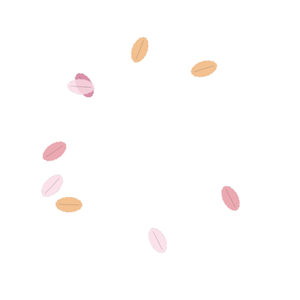
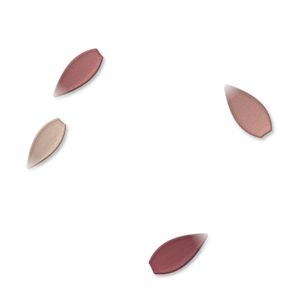
Redraw seal marks as pressed reliefs, better petals and ribbon
Marks are now embossed into the wax like a real seal matrix and are more
personal: owl, letter, quill and ink, comet, moon and stars, forget-me-nots,
rose and key. Petals are pressed rose petals, and the ribbon runs under the
seal in a satin shade of the wax.

Claude-Session: https://claude.ai/code/session_016FXJrYWe26Fg4ZPAV7iHes

diff --git a/src/components/bits.tsx b/src/components/bits.tsx
@@ -8,22 +8,9 @@ import { useStore } from '../lib/store';
 /** A pressed wax seal: real wax image with the person's monogram embossed into it. */
 const ON_TOP = ['gold', 'glitter', 'twigs', 'petals'];
 
-/** Marks that can be pressed into the wax instead of letters. Filled shapes plus round strokes, 24 unit box. */
-const L = { fill: 'none', stroke: 'currentColor', strokeWidth: 1.8, strokeLinecap: 'round' as const, strokeLinejoin: 'round' as const };
-export const MARKS: Record<string, [string, ReactNode]> = {
-  moon: ['Moon', <path d="M15.5 3.2a8.8 8.8 0 1 0 5.6 15.4A7.2 7.2 0 0 1 15.5 3.2z" />],
-  star: ['Star', <path d="M12 2.6l2.75 5.95 6.5.75-4.85 4.4 1.35 6.4L12 16.85 6.25 20.1l1.35-6.4L2.75 9.3l6.5-.75z" />],
-  sun: ['Sun', <><circle cx="12" cy="12" r="4.4" /><path {...L} d="M12 2.5v2.6M12 18.9v2.6M2.5 12h2.6M18.9 12h2.6M5.3 5.3l1.8 1.8M16.9 16.9l1.8 1.8M5.3 18.7l1.8-1.8M16.9 7.1l1.8-1.8" /></>],
-  comet: ['Comet', <><circle cx="16.6" cy="7.4" r="3.4" /><path {...L} d="M13.6 10.4L3.8 20.2M12.2 7.6L6.6 13.2M16.4 11.8l-5.6 5.6" /></>],
-  leaf: ['Leaf', <><path d="M4.5 19.5C4.5 10.5 10 4 20.5 3.5c-.5 10.5-7 16-16 16z" /><path d="M5.5 18.5L14 10" fill="none" stroke="rgba(255,255,255,.25)" strokeWidth="1.2" strokeLinecap="round" /></>],
-  lotus: ['Lotus', <><path d="M12 3.6c2.6 3.2 2.6 8.4 0 12.6c-2.6-4.2-2.6-9.4 0-12.6z" /><path d="M11.2 16.4C8 15.6 4.8 12.6 3.8 8.4c3.4.2 6.6 3.4 7.4 8zM12.8 16.4c3.2-.8 6.4-3.8 7.4-8c-3.4.2-6.6 3.4-7.4 8z" /><path {...L} d="M4.5 19.4h15" /></>],
-  feather: ['Feather', <><path d="M20 3.6C13 3.8 7.6 8.8 7.6 15.4v1.6l1.4 1.4h1.6C17.2 18.4 20.2 11 20 3.6z" /><path {...L} d="M16.4 7.6L4 20" /></>],
-  key: ['Key', <><circle {...L} cx="7.6" cy="12" r="3.8" /><path {...L} d="M11.4 12h9.4M17.6 12v3.2M20.8 12v2.4" /></>]
-};
-
-function MarkIcon({ k }: { k: string }) {
-  return <svg className="mark" viewBox="0 0 24 24" fill="currentColor" aria-hidden="true">{MARKS[k][1]}</svg>;
-}
+/** Marks that can be pressed into the wax instead of letters (pre-rendered reliefs that sit on any wax). */
+export const MARKS: [string, string][] = [['owl', 'Owl'], ['letter', 'Letter'], ['quill', 'Quill and ink'], ['comet', 'Comet'], ['moon', 'Moon and stars'], ['sprig', 'Forget-me-nots'], ['rose', 'Rose'], ['key', 'Key']];
+const isMark = (k?: string | null) => !!k && MARKS.some(([m]) => m === k);
 
 export function Seal({ p, size = 56, label }: { p: Pick<Profile, 'wax' | 'monogram' | 'name'> & Partial<Pick<Profile, 'mixins' | 'edge' | 'mark'>>; size?: number; label?: string }) {
   const mono = (p.monogram || p.name.slice(0, 1) || '·').toUpperCase();
@@ -31,10 +18,10 @@ export function Seal({ p, size = 56, label }: { p: Pick<Profile, 'wax' | 'monogr
   return (
     <span className="seal" role={label ? 'img' : undefined} aria-label={label} aria-hidden={label ? undefined : true}
       style={{ width: size, height: size, fontSize: size * (mono.length > 1 ? 0.24 : 0.32) }}>
-      {mix.includes('ribbon') && <img src="/assets/mix-ribbon.png" alt="" width={size} height={size} />}
+      {mix.includes('ribbon') && <img className="ribbon" src={`/assets/mix-ribbon-${p.wax}.png`} alt="" />}
       <img src={`/assets/wax-${p.wax}${p.edge === 'clean' ? '-clean' : ''}.png`} alt="" width={size} height={size} />
       {ON_TOP.filter((m) => mix.includes(m)).map((m) => <img key={m} src={`/assets/mix-${m}.png`} alt="" width={size} height={size} />)}
-      <span className="mono">{p.mark && MARKS[p.mark] ? <MarkIcon k={p.mark} /> : <span>{mono}</span>}</span>
+      <span className="mono">{isMark(p.mark) ? <img src={`/assets/mark-${p.mark}.png`} alt="" /> : <span>{mono}</span>}</span>
     </span>
   );
 }

diff --git a/src/styles.css b/src/styles.css
@@ -68,13 +68,13 @@ textarea { resize: vertical; line-height: 1.5 }
 
 .seal { position: relative; display: inline-block; flex: none; line-height: 0 }
 .seal img { position: absolute; inset: 0; width: 100%; height: 100% }
+.seal img.ribbon { inset: -25%; width: 150%; height: 150%; max-width: none; max-height: none }
 .seal .mono { position: absolute; inset: 0; display: flex; align-items: center; justify-content: center; font-family: var(--serif); font-style: italic; font-weight: 600; line-height: 1;
   color: rgba(0, 0, 0, .34); text-shadow: 0 1px 0 rgba(255, 255, 255, .22), 0 -1px 1px rgba(0, 0, 0, .25) }
-.seal .mono .mark { width: 1.7em; height: 1.7em; filter: drop-shadow(0 1px 0 rgba(255, 255, 255, .22)) drop-shadow(0 -1px .5px rgba(0, 0, 0, .3)) }
 .mark-pick { display: grid; grid-template-columns: repeat(4, 1fr); gap: 8px }
-.mark-pick button { aspect-ratio: 1; border-radius: 14px; border: 1px solid var(--line); background: rgba(255,255,255,.4); color: var(--ink); display: flex; align-items: center; justify-content: center; padding: 0 }
-.mark-pick button.on { border-color: var(--ink); background: rgba(255,255,255,.75) }
-.mark-pick svg { width: 30px; height: 30px }
+.mark-pick button { aspect-ratio: 1; border-radius: 50%; border: 2px solid transparent; background: none; color: var(--ink); display: flex; align-items: center; justify-content: center; padding: 0 }
+.mark-pick button.on { border-color: var(--ink) }
+.mark-pick .seal { pointer-events: none }
 .seal .mono span { display: block; transform: translateY(var(--mono-y, .03em)) }
 .owl { display: block; flex: none }
 .stamp { flex: none }

diff --git a/src/screens/Setup.tsx b/src/screens/Setup.tsx
@@ -23,14 +23,14 @@ export function SealDesigner({ draft, set }: { draft: Profile; set: (p: Partial<
       <section className="stack"><h2>Pressed into the centre</h2>
         <div className="chips">
           <button className={`chip${!draft.mark ? ' on' : ''}`} aria-pressed={!draft.mark} onClick={() => set({ mark: null })}>Letters</button>
-          <button className={`chip${draft.mark ? ' on' : ''}`} aria-pressed={!!draft.mark} onClick={() => set({ mark: draft.mark || 'moon' })}>A mark</button>
+          <button className={`chip${draft.mark ? ' on' : ''}`} aria-pressed={!!draft.mark} onClick={() => set({ mark: draft.mark || 'owl' })}>A mark</button>
         </div>
         {!draft.mark ? (
           <input id="mono" type="text" aria-label="Pressed letters" value={draft.monogram} maxLength={2} onChange={(e) => set({ monogram: e.target.value.toUpperCase() })} placeholder={draft.name.slice(0, 1).toUpperCase() || 'T'} />
         ) : (
-          <div className="mark-pick">{Object.entries(MARKS).map(([k, [label, art]]) => (
+          <div className="mark-pick">{MARKS.map(([k, label]) => (
             <button key={k} className={draft.mark === k ? 'on' : ''} aria-label={label} aria-pressed={draft.mark === k} onClick={() => set({ mark: k })}>
-              <svg viewBox="0 0 24 24" fill="currentColor" aria-hidden="true">{art}</svg>
+              <Seal p={{ ...draft, mixins: [], mark: k }} size={64} />
             </button>
           ))}</div>
         )}
